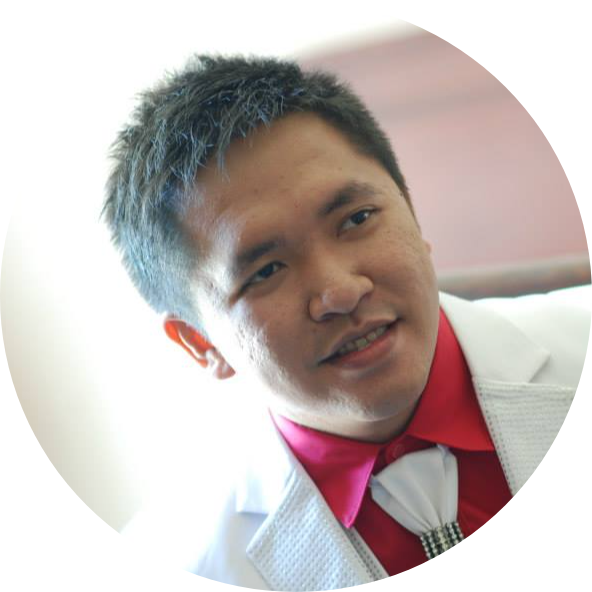
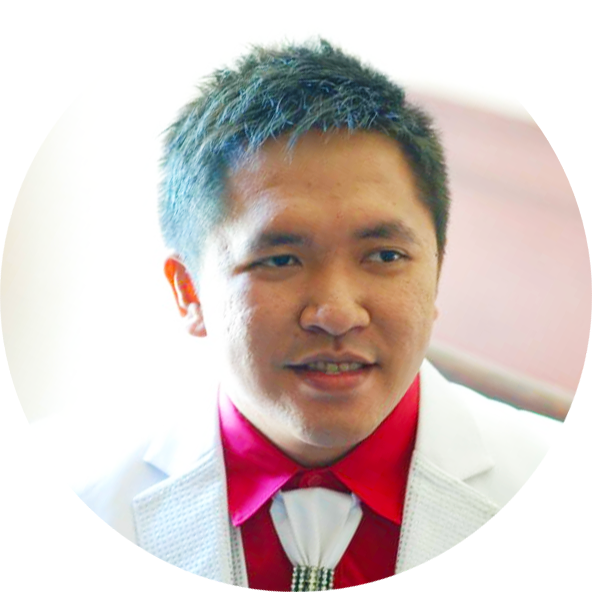
Responsive

diff --git a/index.html b/index.html
@@ -6,22 +6,32 @@
   <title>EmilioComiling</title>
   <link rel="stylesheet" href="css/styles.css">
   <link rel="icon" href="favicon.ico" type="image/png" sizes="128*128">
-  <link rel="preconnect" href="https://fonts.gstatic.com">
-  <link href="https://fonts.googleapis.com/css2?family=Actor&family=Nothing+You+Could+Do&family=Permanent+Marker&display=swap" rel="stylesheet">
-  <link href="https://fonts.googleapis.com/css2?family=Noto+Sans+JP&family=Permanent+Marker&display=swap" rel="stylesheet">
+ 
 </head>
 <body>
-  <div class="topContainer">
-    <h1 class="textsCenter">I'm Emilio</h1>
-    <h2 class="sub">Software Engineer</h2>
-    <img class="view" src="https://media.giphy.com/media/l4hLRemF2zCKoni6Y/giphy.gif" alt="beach.gif" width="1950px" height="400px">
+  <div class="BGimage">
+    <div class="topContainer">
+    <img class="view" src="img/sunset.jpg" alt="beach.gif">
+        <div class class="centerText">
+          <h1 class="textsCenter">Hi, I'm Emilio</h1>
+          <h2 class="sub">Web Developer</h2>
+        <div class="navContainer">
+          <div class="topnav">
+            <a href="#home">Home</a>
+            <a href="#projects">Projects</a>
+            <a href="#contact">Contact</a>
+            </div>
+          </div>
+        </div>
+      </div>
   </div>
+      
 
-  <div class="middle-container">
-    <div class="profile">
-      <img src="img/Emilio.png" alt="Emilio profile picture" width="300" height="300" class="rotateimg180">
+    <div class="middle-container">
+      <div class="profile">
+      <img src="img/Emilio.png" alt="Emilio profile picture" width="300" height="300">
       <h2>Hello.</h2>
-      <p>Coming out from College, I have been teaching myself different programming languages and building some projects. Below you can check my online profiles and check the apps and webites that I have created.</p>
+      <p>Coming out from College, I have always made to expand my knowledge by teaching myself different programming languages in building web  sites and mobile apps.</p>
     </div>
     <hr>
     <div class="skills">
@@ -38,20 +48,19 @@
       </div>
     </div>
     <hr>
-    <div class="contact-me">
-      <h2>Get In Touch</h2>
-      <h3>Please do send me an email for any queries.</h3>
-      <a class="btn" href="ecomiling@rocketmail.com"><img src="https://www.flaticon.com/svg/static/icons/svg/893/893292.svg" width="30" height="30">ecomiling@rocketmail.com</a>
-      <h3>Better yet, you can also check my online profiles and see as to what I have been up to. </h3>
+      <div class="contact-me">
+        <h2>Get In Touch</h2>
+        <h3>Please do send me an email for any queries.</h3>
+        <a class="btn" href="ecomiling@rocketmail.com"><img src="https://www.flaticon.com/svg/static/icons/svg/893/893292.svg" width="30" height="30">ecomiling@rocketmail.com</a>
+        <h3>Better yet, you can also check my online profiles and see as to what I have been up to. </h3>
+      </div>
     </div>
-  </div>
     
-  <div class="bottom-container">
-    <a class="footer-link" href="https://www.linkedin.com/in/emilio-comiling-393717b4/"><img src="https://www.flaticon.com/svg/static/icons/svg/174/174857.svg" width="30" height="30"></a>
-    <a class="footer-link" href="https://twitter.com/J213R"><img src="https://www.flaticon.com/premium-icon/icons/svg/2504/2504947.svg" width="30" height="30"></a>
-    <a class="footer-link" href="https://emiliobc.github.io/CSS_My_Site/"><img src="favicon.ico" width="30" height="30"></a>
-    <p>© 2020 Emilio Comiling Jr.</p>
-  </div>
-  
+    <div class="bottom-container">
+      <a class="footer-link" href="https://www.linkedin.com/in/emilio-comiling-393717b4/"><img src="https://www.flaticon.com/svg/static/icons/svg/174/174857.svg" width="30" height="30"></a>
+      <a class="footer-link" href="https://twitter.com/J213R"><img src="https://www.flaticon.com/premium-icon/icons/svg/2504/2504947.svg" width="30" height="30"></a>
+      <a class="footer-link" href="https://emiliobc.github.io/CSS_My_Site/"><img src="favicon.ico" width="30" height="30"></a>
+      <p>© 2020 Emilio Comiling Jr.</p>
+    </div>
 </body>
 </html>

diff --git a/css/styles.css b/css/styles.css
@@ -1,78 +1,98 @@
+* {
+  margin: 0;
+  padding: 0;
+}
 body {
-  margin: 0 auto;
-  text-align: center;
-  background-color: silver;
+  /* text-align: center; */
+}
+.BGimage {
+  background-image: url("/img/codeBG.jpg");
+  background-color: black;
+  height: 1500px;
+  background-position: center;
+  background-repeat: no-repeat;
+  background-size: cover;
 }
 .topContainer {
-  /* background-image: linear-gradient(red, yellow); */
-  position: relative;
-  height: 450px;
-  margin-bottom: 10px;
+  max-width: 960px;
+  margin: 0 auto;
+  background-color: black;
+}
+.view {
   width: 100%;
-}
-/* .view {
+  height: 600px;
   position: relative;
-} */
-
-.textsCenter {
-  text-align: center;
-  bottom: 70px;
-  position: absolute;
-  font-family: "Nothing You Could Do", cursive;
+  margin: auto;
+  max-width: 960px;
 }
+.navContainer {
+  position: relative;
+  bottom: 150px;
+  left: 10px;
+  /* margin: 20px; */
+  width: auto;
+  max-width: fit-content;
+}
+.topnav {
+  overflow: hidden;
+  /* background-color: black; */
+  top: 10px;
+  /* position: relative; */
+}
+.topnav a {
+  float: left;
+  color: black;
+  text-align: center;
+  padding: 14px 16px;
+  text-decoration: none;
+  font-size: 17px;
+  top: 10px;
+  /* position: relative; */
+  color: white;
+  font-size: 30px;
+}
+.topnav a:hover {
+  background-color: #ddd;
+  color: black;
+}
+.textsCenter,
 .sub {
   position: absolute;
-  bottom: 130px;
+  left: 0;
+  right: 0;
+  margin-left: auto;
+  margin-right: auto;
+  top: 100px;
+  width: 100%;
+  max-width: fit-content;
 }
-hr {
-  text-decoration-style: dotted;
-}
-.middle-container {
-  width: 920px;
-  margin: auto;
-}
-.rotateimg180 {
-  transform: rotate(30deg);
-}
-.skill-row {
-  width: 920px;
-  text-align: left;
-  line-height: 2;
-  margin: 100px auto 100px auto;
+.sub {
+  top: 170px;
 }
 
-.html-img {
-  border-radius: 25px;
-  float: left;
-  margin-right: 30px;
+.middle-container {
+  max-width: 960px;
+  margin: 0 auto;
+  background-color: black;
+  position: absolute;
+  top: 600px;
+  left: 0;
+  right: 0;
+  margin-left: auto;
+  margin-right: auto;
 }
-.javascript-img {
-  border-radius: 25px;
-  float: right;
-  margin-left: 30px;
-}
-.JS-title {
-  padding-left: 580px;
+
+.bottom-container {
+  max-width: 960px;
+  margin: 0 auto;
+  background-color: black;
+  position: absolute;
+  top: 1420px;
+  left: 0;
+  right: 0;
+  margin-left: auto;
+  margin-right: auto;
 }
 p {
-  position: relative;
-  font-family: "Noto Sans JP", sans-serif;
-  font-size: 20px;
-}
-h1 {
-  font-family: "Permanent Marker", cursive;
-  position: absolute;
-  font-size: 90px;
-  color: #636060;
-}
-h2 {
-  font-family: "Permanent Marker", cursive;
-  font-size: 2.5rem;
-  font-weight: normal;
-  color: #636060;
-}
-h3 {
-  font-family: "Permanent Marker", cursive;
-  font-weight: normal;
-  color: #636060;
+  color: white;
 }
